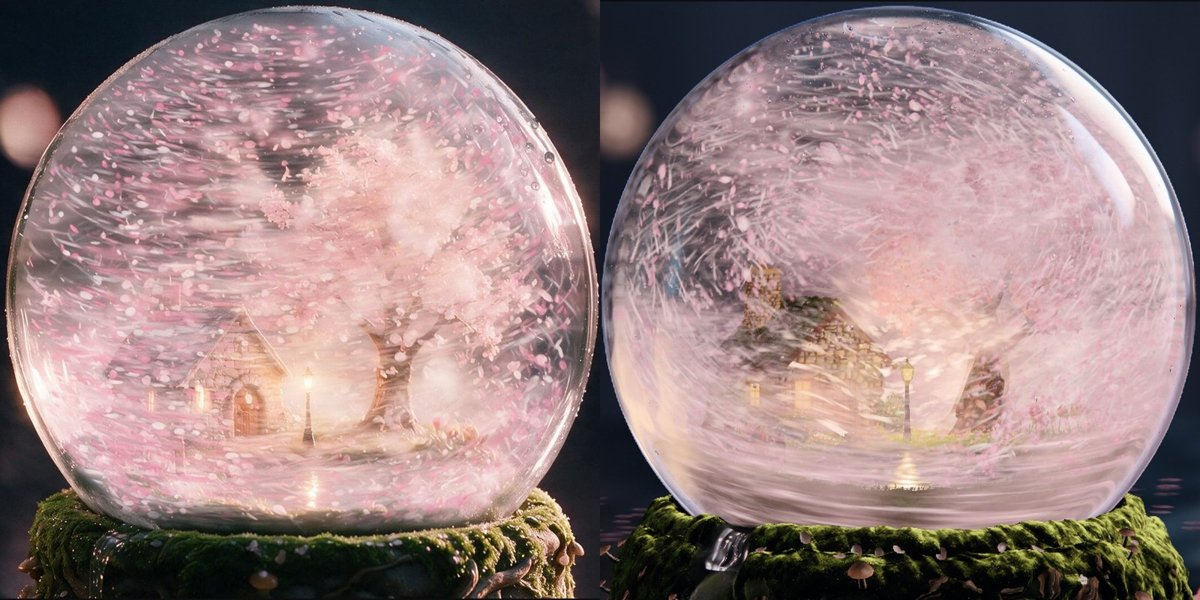
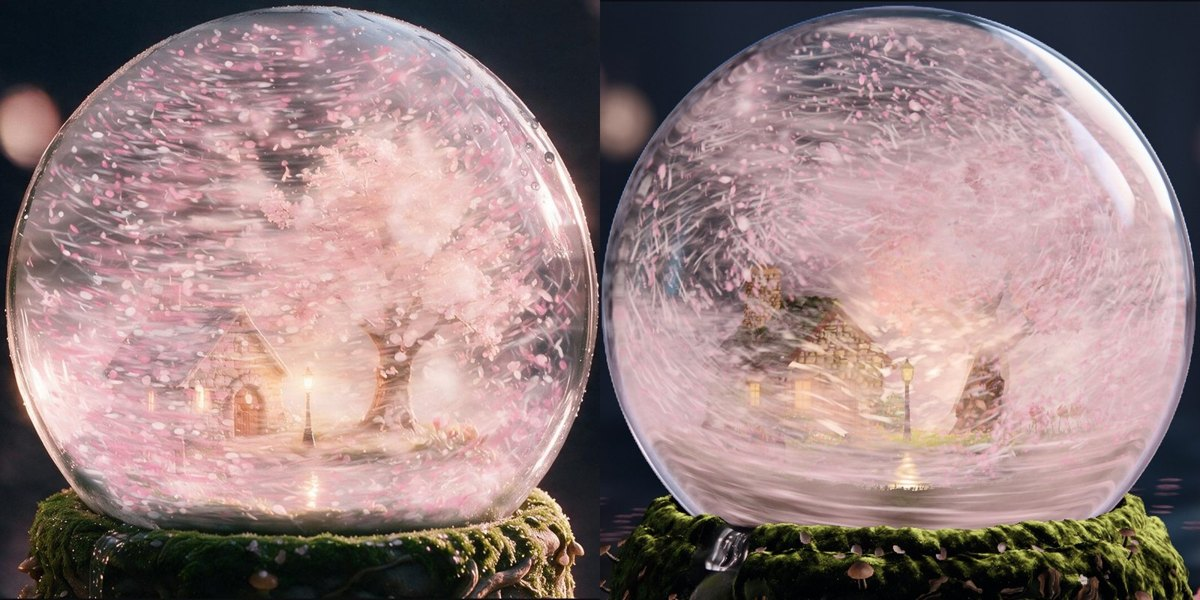
Looks: rest and landed hero, flood and landing frames; REPORT and HANDOVER

Changed region(s): [[0.4933, 0.57, 0.5858, 0.84], [0.7092, 0.03, 0.74, 0.09]]

diff --git a/REPORT.md b/REPORT.md
@@ -1,0 +1,45 @@
+# REPORT — spring_air3 (season spring: glass dressing, veil, rig, backdrop, particle rows, arrival timing)
+
+Branch `agent/p4-spring_air3`, last commit `7e17e45` (merge of `origin/main` 790721d over `39f807c`). Looks branch `agent/p4-spring_air3-looks`. Make targets: none.
+
+## Commits
+- `c151e0a` film on the glass, first landed glow
+- `c7b5273` landed storm thinned, crown veil
+- `6682a25` Round 11 R1 issues 1, 2, 5, 6, 11 first pass (storm axis, wash broken with pond and trunk gaps, warm glow, rivulets, sheen, caustic, slate-blue backdrop with left oval)
+- `0d69030` rivulet family on the key shoulder, crown veil thinner, pocket above the crown, larger warm flare, rest haze tighter
+- `b8f3da3` shell: the oval bubble is winter's only (decision 90); winter rest and landed hero stills byte-identical before and after (rest f6a5bfd6…681bf9, landed 06ce7056…5bf0cd)
+- `39f807c` R4 #4 flood thins inside the set down and is drawn as streaks; R4 #5 beats staggered; R4 #8 first burst on frame 720
+
+## Issues, as they stand (what I saw at draft hd)
+| Issue | State | Seen |
+|---|---|---|
+| R1 1 severe, landed storm | part | landed hero: scene, lamp post, trunk and pond glint read; pocket above the crown. Trails are still thin white crossing hairs with few petal heads (trail draw is kinds3's) |
+| R1 2 severe, dome | part | crown oval gone (b8f3da3); shoulder sheen and lower-left caustic drawn. The broad white upper-right strip is the shared shell's, unchanged |
+| R1 5 major, rivulets | part | a family of thin runoff lines on the upper right shoulder; few, thin, no pendant drops |
+| R1 6 major, pink veil | part | warm haze localized at lamp and tree, dark depth above the landscape; lower globe still paler than approved boxes in places |
+| R1 11 major, backdrop | fixed except right mass | slate-blue falloff and left oval back; right side sparser and whiter than the approved peach mass (shared disc layout) |
+| R3 part 1 severe, peak swirl bands | not re-seen | my storm changes apply; no still at the set-B-01 camera rendered after them: unseen |
+| R4 oval | fixed | b8f3da3 |
+| R4 #4 major, flood flat fill | part | frames 688/704/720: 688 streaked but nearly closed, 704 scene visible, 720 scene and gaps. Frames 628–683 (inside and before the swap window) not re-rendered: unseen; the cover there is unchanged in alpha, colour now streaked |
+| R4 #5 major, beats | timing done | 0 s jump and first water; 0.6 s beads form; ~0.7 s first runs; 1 s mist rises. Seen at 720, 738, 756 only; later beats (bead growth, mist) not looked at in the film: unseen. Rest hero unchanged by it (boxes equal to before) |
+| R4 #6 major, waterfall | not done | shape and `FLOW` timing are in base.ts (bases3); arrival.ts only passes the clock. Nothing changed |
+| R4 #8 minor, floor-petal ring | done in timing | `JUMP_LEAD 0.05`: petals beside the base are off the surface on 720. Size of the jump is bases3's `setJump` |
+
+## Not undone because the approved pair asks for it
+- The pale crown cloud in the landed hero (approved shake image has a pale blown crown); kept, thinner.
+- Cover inside the swap window (M4 needs it).
+
+## Tests on 39f807c (merge added scorecards and status files only)
+- `npx tsc --noEmit` clean; `npx vitest run` 32 files passed, 1 skipped (432 tests passed, 4 skipped)
+- `npm run determinism`: `determinism: pass`
+- `measure --unit change --only M4,M5 --tier draft`: M4 0.9448 / 0.977 / 0.9189 / 0.9627 (0.85); M5 0.9883 / 1 / 0.9925 / 0.9996 (0.6)
+- `measure --unit spring --only M1,M2,M3,M6 --tier draft`: M1, M3 (rest 0.8115), M6 pass; M2 FAIL rest 0.0501, shake 0.0517, settled 0.0499 (0.03), surface 0.0256 pass. The soft pixels are part `surface-dressing-spring` (ids 96,251,121), slab.ts, bases3's.
+
+## Triangles (G15), merged build at draft
+My files 26,068 at every level (unchanged). Season: high 1,483,072 of 1,800,000; medium 859,779 of 1,100,000; low 389,352 of 600,000.
+
+## Stand-ins and fallbacks
+None in my files.
+
+## Looks used (approximate)
+veil-spring 29 of 40, glass-dressing-spring 26 of 40 (a fit render shows both). Besides: 3 film sheets (5, 4 and 3 frames), 2 base-camera renders for the M1 trap, macro and interior at rest, 4 winter hero stills for the bubble hashes.

diff --git a/HANDOVER.md b/HANDOVER.md
@@ -1,0 +1,27 @@
+# HANDOVER — spring_air3 (Snow Globe, Phase 4, season spring: glass dressing, veil, rig, backdrop, particle rows, arrival timing)
+
+Branch `agent/p4-spring_air3` (code), `agent/p4-spring_air3-looks` (this branch). Make targets: none (shader and value work only).
+
+## Files and what lives where
+- `src/seasons/spring/veil.ts` — the storm of the shake (STORM shader, `stormAt`), the mist at rest (`updateMist`, `mistAt`), the warm glow round lamp and tree, the pocket above the crown, the trunk window.
+  - Flood release: `releaseLanding 0.88`, `releaseEarly 0.6` — the cover the swap needs holds inside the swap window (frames 648–683) and is let go mostly within the set down. `floodDrawn 0.8` makes the flood's colour follow streaks and lanes (alpha untouched, so M4 holds).
+  - Landed storm: `upright`, `axisAt`, `layer`, `top`, `near`, wash (`washEven`, `washGap`, `washPond`, `washTrunk`), crown veil (`crown*`), flare (`lamp*`, `flareTint`, `flareZ` keeps the glow behind lamp post and trunk), `pocket*`, `trunk*`.
+  - Mist beat: `riseAfter 1` s, then `riseSeconds 5`, `thinSeconds 7`.
+- `src/seasons/spring/glass.ts` — dew, beads, runs, the film with `rill` (runoff lines on the key shoulder), `sheen`, `caustic`. `afterLanding 0.6` s delays every glass beat after the landing.
+- `src/seasons/spring/backdrop.ts` — slate-blue falloff (`room`, `floor`), left-shoulder `OVAL` projected for the hero camera, warm right spill.
+- `src/seasons/spring/arrival.ts` — order and timing of the beats only. `JUMP_LEAD 0.05` s puts the petals' first burst on the landing frame. `setJump`, `setPool`, `FLOW`, `trickle` are bases3's (slab.ts, base.ts).
+- `src/globe/shell.ts` — only `glassLook.bubble.seasons: ['winter']` and the `visible` line (decision 90). Winter rest and landed hero stills are byte-identical before and after.
+- `src/particles/engine/kinds.ts` — rows `petal`, `mote` only. The row has no trail length field; trail draw is `src/particles/draw/**` (kinds3).
+
+## Beats after the landing (kit/02, spring), as built
+0 s: petals on the table jump (lead 0.05 s) and the first water runs (`FLOW.startSeconds 0.12`, bases3). 0.6 s: dew and beads begin to form, first runs slide from about 0.7 s. 1 s: mist begins to rise. Storm thins from the end of the swap window through 0.5 s after the landing.
+
+## Lessons
+- GLSL reserved words (`patch`) break a shader silently; run `node out/work/bin/dbg.mjs 2>&1 | grep -i error` after shader edits.
+- Runoff lines seen face-on read as white wires; they read as water only at the grazing shoulder toward the key, dark and bright edged, as a family.
+- A gain on mist colour saturates; cover is what matters. The glow must sit behind lamp post and trunk so they silhouette.
+- The crown "cloud" in the landed hero is the crown veil of veil.ts (without it the tree shows branches); the approved image asks for the pale crown, so it stays, thinner.
+- Tried and failed (spring_air2 and here): shared veil as storm mist, long sinuous trails, thick dawn mist at rest, even haze everywhere, fog ball between cottage and tree, fast petal sink, dark curling run lines.
+
+## Tools (in the clone, not committed): `out/work/bin/` `tris.mjs`, `dbg.mjs`, `side.py`, `boxes.py`, `top.py`.
+Commands: `npm run -s fit -- --season spring --tier draft --format hd --state rest|landed --box 858,99,1964,1205 --name <n> --force`; `npm run -s seq -- --first N --last M --step K --tier draft --format hd --look no`.
